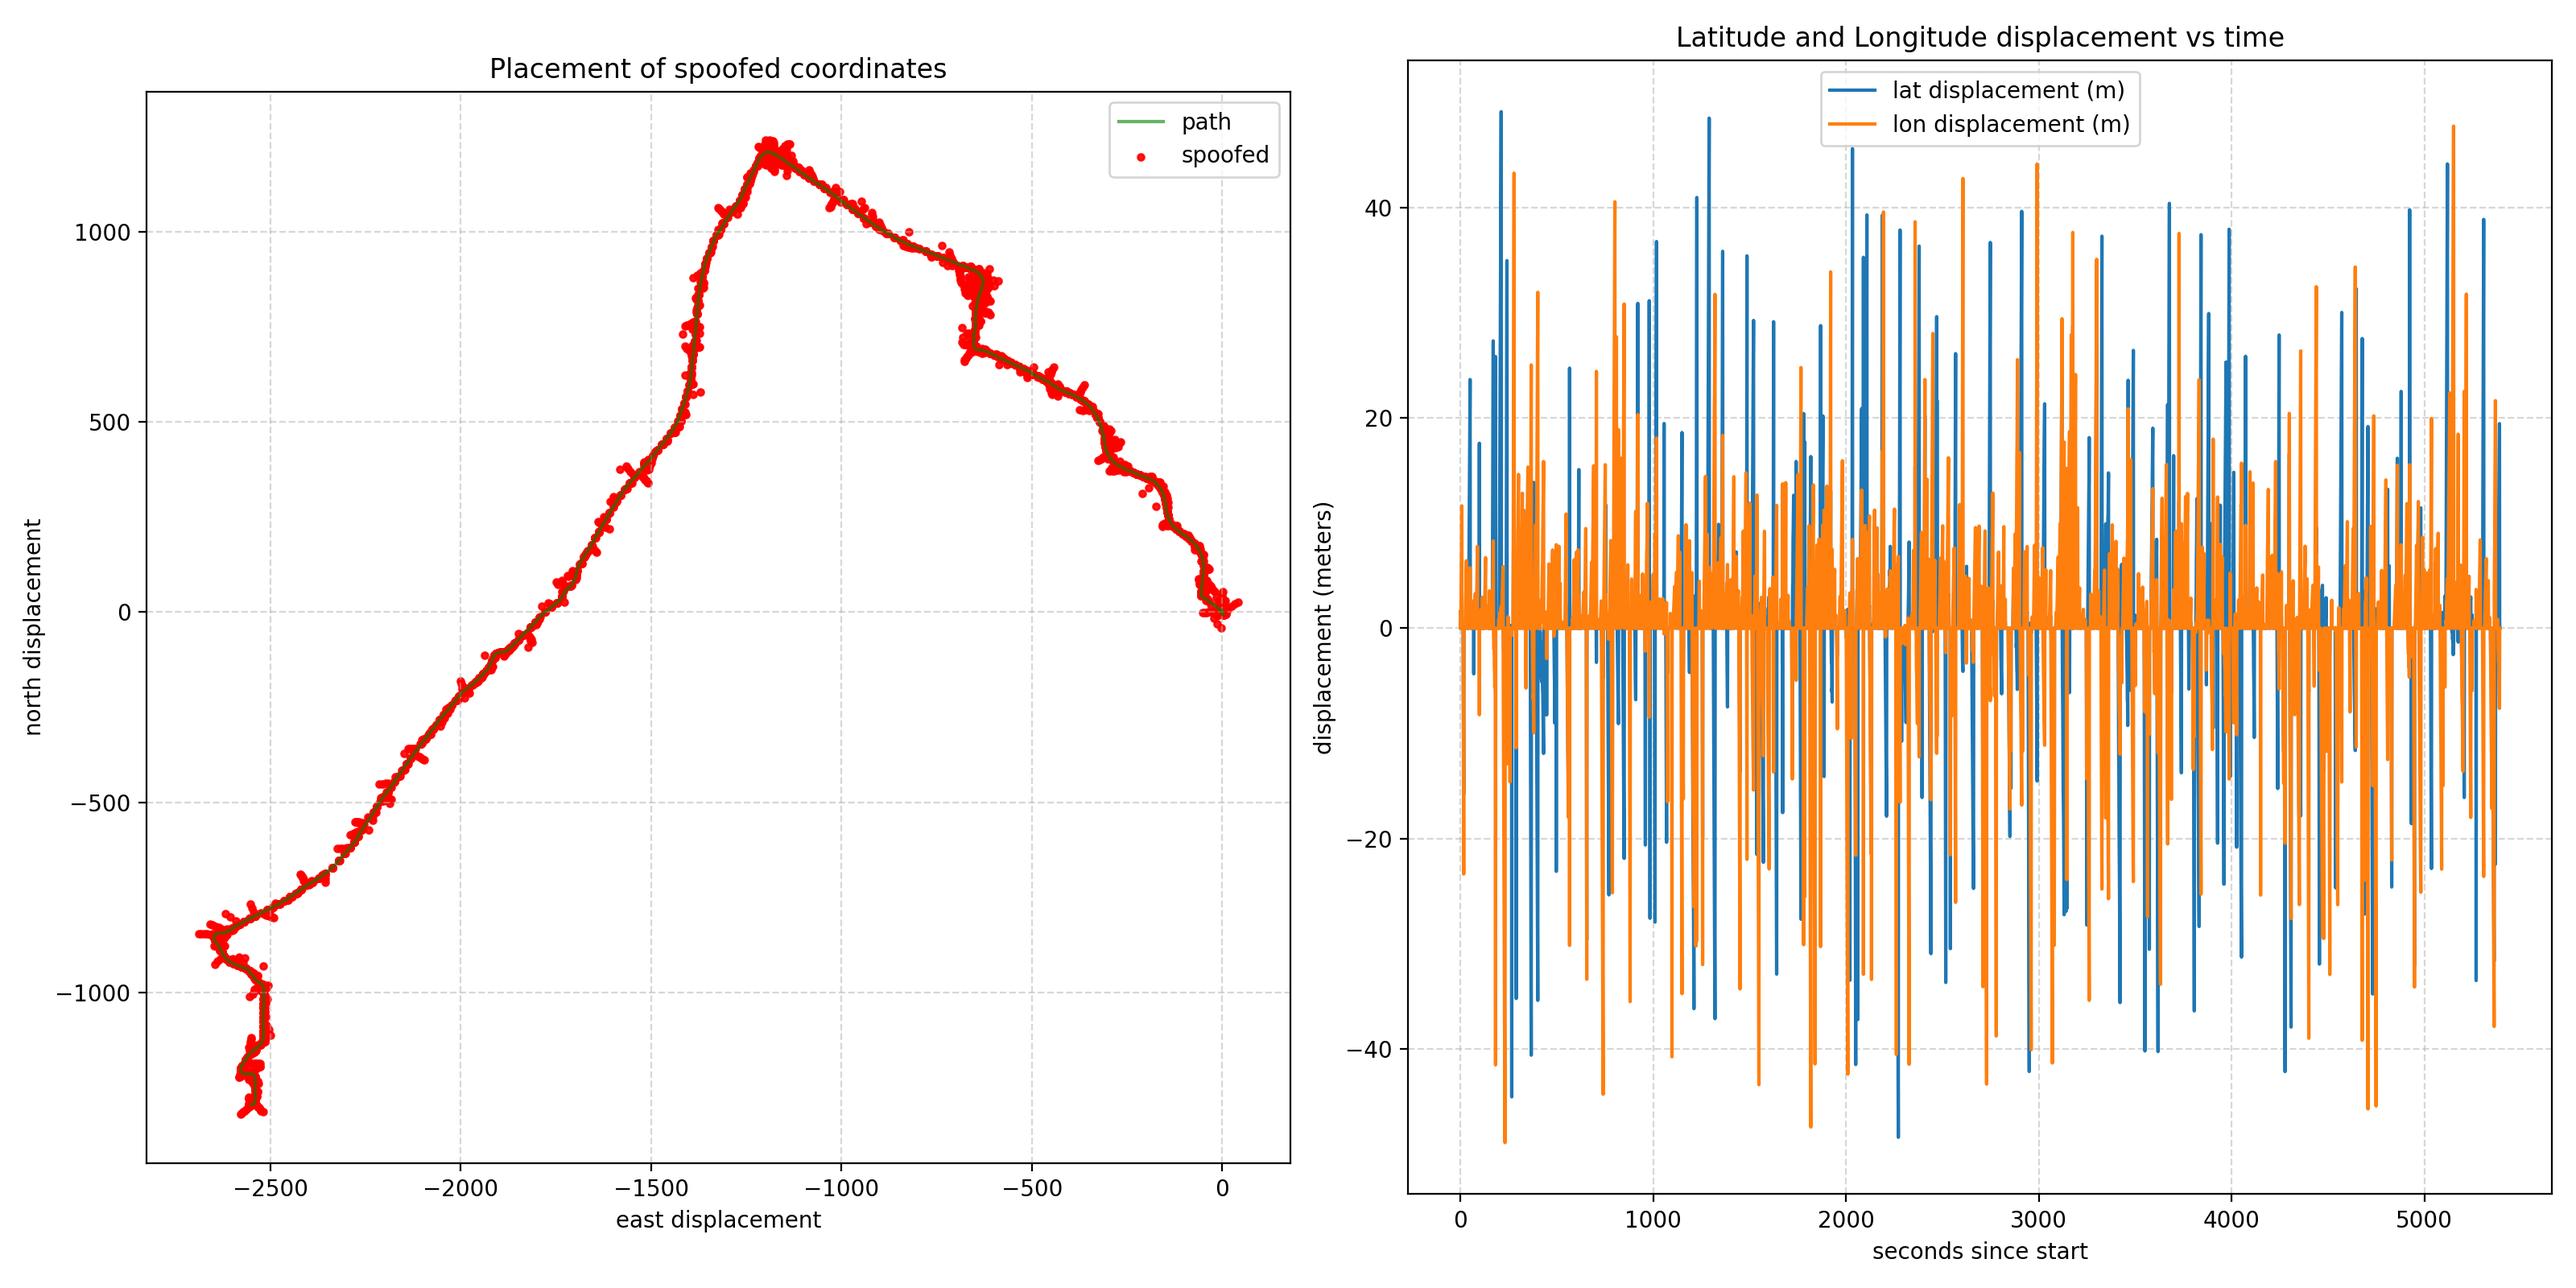
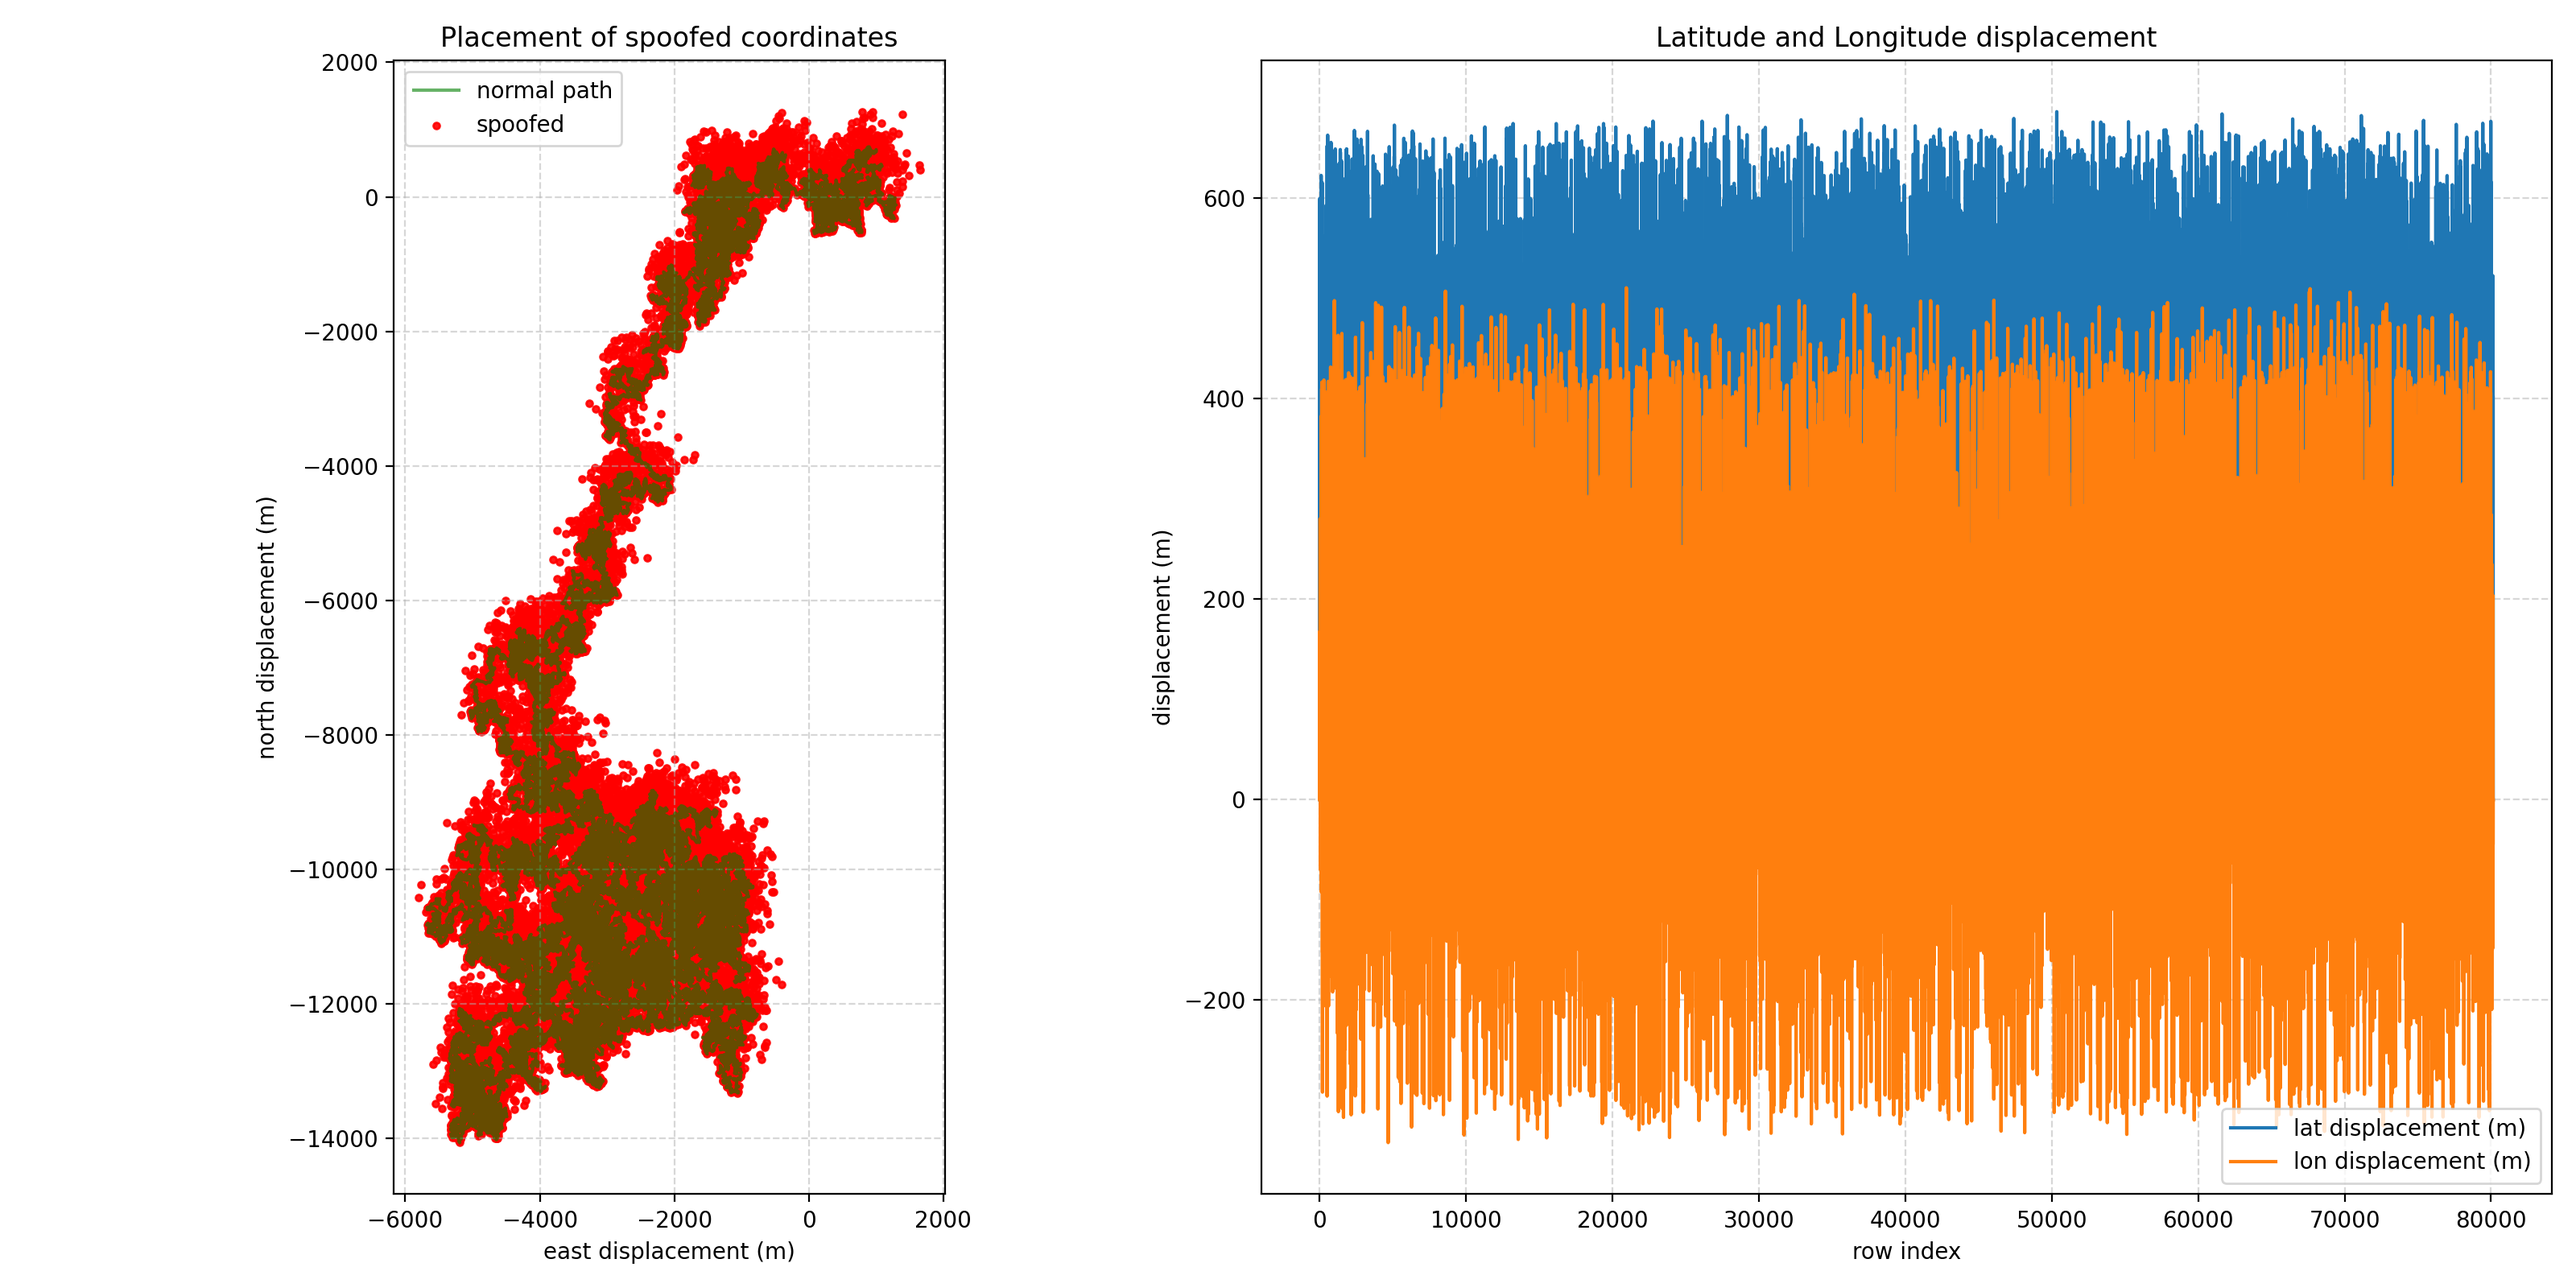
testing

diff --git a/code/scripts/comparison.py b/code/scripts/comparison.py
@@ -1,0 +1,148 @@
+import pandas as pd
+import numpy as np
+import matplotlib.pyplot as plt
+import seaborn as sns
+from sklearn.manifold import TSNE
+import os
+from mpl_toolkits.mplot3d import Axes3D
+
+# Paths
+base_dir = "results"
+cnn_dir = os.path.join(base_dir, "cnn")
+hybrid_dir = os.path.join(base_dir, "hybrid")
+comp_dir = os.path.join(base_dir, "comparison")
+os.makedirs(comp_dir, exist_ok=True)
+
+# ---------- Load Fold Metrics ----------
+cnn_metrics = pd.read_csv(os.path.join(cnn_dir, "cnn_metrics.csv"))
+hybrid_metrics = pd.read_csv(os.path.join(hybrid_dir, "hybrid_metrics.csv"))
+
+# ---------- Accuracy Over Epochs ----------
+def plot_accuracy():
+    cnn_acc = [0.9102, 0.9184, 0.9246, 0.9308, 0.9359, 0.9397, 0.9423, 0.9449, 0.9468, 0.9489]
+    cnn_val = [0.9528] * 10
+    hybrid_acc = [0.9501, 0.9562, 0.9613, 0.9654, 0.9685, 0.9706, 0.9727, 0.9738, 0.9749, 0.9759]
+    hybrid_val = [0.9722, 0.9722, 0.9722, 0.9722, 0.9722, 0.9722, 0.9722, 0.9701, 0.9722, 0.9722]
+
+    plt.figure(figsize=(6, 4))
+    plt.plot(cnn_acc, label="CNN Training", linestyle="--", color="blue")
+    plt.plot(cnn_val, label="CNN Validation", color="blue")
+    plt.plot(hybrid_acc, label="Hybrid Training", linestyle="--", color="red")
+    plt.plot(hybrid_val, label="Hybrid Validation", color="red")
+    plt.xlabel("Epoch")
+    plt.ylabel("Accuracy")
+    plt.title("Training vs Validation Accuracy")
+    plt.legend()
+    plt.savefig(os.path.join(comp_dir, "accuracy_over_epochs.png"))
+    plt.close()
+
+# ---------- Loss Over Epochs ----------
+def plot_loss():
+    cnn_loss = [0.0521, 0.0483, 0.0456, 0.0432, 0.0417, 0.0405, 0.0396, 0.0389, 0.0383, 0.0378]
+    cnn_val = [0.0339] * 10
+    hybrid_loss = [0.0452, 0.0413, 0.0384, 0.0361, 0.0345, 0.0332, 0.0321, 0.0314, 0.0308, 0.0302]
+    hybrid_val = [0.0277, 0.0277, 0.0277, 0.0277, 0.0277, 0.0277, 0.0277, 0.0288, 0.0277, 0.0277]
+
+    plt.figure(figsize=(6, 4))
+    plt.plot(cnn_loss, label="CNN Training", linestyle="--", color="blue")
+    plt.plot(cnn_val, label="CNN Validation", color="blue")
+    plt.plot(hybrid_loss, label="Hybrid Training", linestyle="--", color="red")
+    plt.plot(hybrid_val, label="Hybrid Validation", color="red")
+    plt.xlabel("Epoch")
+    plt.ylabel("Loss")
+    plt.title("Training vs Validation Loss")
+    plt.legend()
+    plt.savefig(os.path.join(comp_dir, "loss_over_epochs.png"))
+    plt.close()
+
+# ---------- Pie Charts ----------
+def pie_chart(model, df):
+    TP = df["TP"].sum()
+    TN = df["TN"].sum()
+    FP = df["FP"].sum()
+    FN = df["FN"].sum()
+    correct = TP + TN
+    incorrect = FP + FN
+    plt.figure(figsize=(4, 4))
+    wedges, texts, autotexts = plt.pie(
+        [correct, incorrect],
+        labels=["Correct", "Incorrect"],
+        autopct="%1.1f%%",
+        colors=["#4CAF50", "#F44336"],
+        startangle=90
+    )
+    plt.title(f"{model} Prediction Breakdown")
+    plt.legend(wedges, ["Correct", "Incorrect"], title="Outcome", loc="center left", bbox_to_anchor=(1, 0.5))
+    plt.savefig(os.path.join(comp_dir, f"{model.lower()}_pie_chart.png"), bbox_inches="tight")
+    plt.close()
+
+# ---------- FP vs FN Bar Chart ----------
+def fp_fn_bar():
+    fp_fn = pd.DataFrame({
+        "Model": ["CNN", "Hybrid"],
+        "False Positives": [cnn_metrics["FP"].sum(), hybrid_metrics["FP"].sum()],
+        "False Negatives": [cnn_metrics["FN"].sum(), hybrid_metrics["FN"].sum()]
+    })
+    x = np.arange(len(fp_fn["Model"]))
+    width = 0.35
+    plt.figure(figsize=(6, 4))
+    plt.bar(x - width/2, fp_fn["False Positives"], width, label="False Positives")
+    plt.bar(x + width/2, fp_fn["False Negatives"], width, label="False Negatives")
+    plt.xticks(x, fp_fn["Model"])
+    plt.ylabel("Count")
+    plt.title("False Positives vs False Negatives (All Folds)")
+    plt.legend()
+    plt.savefig(os.path.join(comp_dir, "fp_fn_bar_comparison.png"))
+    plt.close()
+
+# ---------- F1 Fold Comparison ----------
+def f1_fold_comparison():
+    cnn_f1 = cnn_metrics["F1"]
+    hybrid_f1 = hybrid_metrics["F1"]
+    folds = cnn_metrics["Fold"]
+    plt.figure(figsize=(6, 4))
+    plt.plot(folds, cnn_f1, marker="o", label="CNN")
+    plt.plot(folds, hybrid_f1, marker="o", label="Hybrid")
+    plt.xlabel("Fold")
+    plt.ylabel("F1 Score")
+    plt.title("F1 Score Comparison Across Folds")
+    plt.legend()
+    plt.savefig(os.path.join(comp_dir, "f1_fold_comparison.png"))
+    plt.close()
+
+# ---------- 3D t-SNE Embedding ----------
+def load_all_folds(model):
+    dfs = []
+    for i in range(1, 6):
+        path = os.path.join(base_dir, model, f"{model}_fold_{i}.csv")
+        df = pd.read_csv(path)
+        dfs.append(df)
+    return pd.concat(dfs, ignore_index=True)
+
+def tsne_3d(model):
+    df = load_all_folds(model)
+    features = df.drop(columns=["label"])
+    labels = df["label"]
+    tsne = TSNE(n_components=3, random_state=42)
+    reduced = tsne.fit_transform(features)
+    fig = plt.figure(figsize=(7, 5))
+    ax = fig.add_subplot(111, projection='3d')
+    scatter = ax.scatter(reduced[:, 0], reduced[:, 1], reduced[:, 2], c=labels, cmap="coolwarm", alpha=0.6)
+    ax.set_title(f"{model.upper()} 3D t-SNE Embedding (All Folds Combined)")
+    ax.set_xlabel("t-SNE 1")
+    ax.set_ylabel("t-SNE 2")
+    ax.set_zlabel("t-SNE 3")
+    legend = ax.legend(*scatter.legend_elements(), title="Label", loc="upper right")
+    ax.add_artist(legend)
+    plt.savefig(os.path.join(comp_dir, f"{model.lower()}_tsne_3d.png"))
+    plt.close()
+
+# ---------- Run All ----------
+plot_accuracy()
+plot_loss()
+pie_chart("CNN", cnn_metrics)
+pie_chart("Hybrid", hybrid_metrics)
+fp_fn_bar()
+f1_fold_comparison()
+tsne_3d("cnn")
+tsne_3d("hybrid")

diff --git a/code/scripts/matrix_metrics.py b/code/scripts/matrix_metrics.py
@@ -1,0 +1,31 @@
+import pandas as pd
+import os
+
+# Setup paths
+base_dir = "results"
+cnn_dir = os.path.join(base_dir, "cnn")
+hybrid_dir = os.path.join(base_dir, "hybrid")
+os.makedirs(cnn_dir, exist_ok=True)
+os.makedirs(hybrid_dir, exist_ok=True)
+
+# CNN metrics
+cnn_data = [
+    [1, 316, 298, 0, 27, 0.9533, 1.0000, 0.9169, 0.9567],
+    [2, 308, 290, 0, 30, 0.9485, 1.0000, 0.9113, 0.9463],
+    [3, 310, 294, 0, 27, 0.9548, 1.0000, 0.9199, 0.9532],
+    [4, 305, 288, 0, 30, 0.9454, 1.0000, 0.9104, 0.9429],
+    [5, 318, 300, 0, 25, 0.9579, 1.0000, 0.9271, 0.9567],
+]
+cnn_df = pd.DataFrame(cnn_data, columns=["Fold", "TP", "TN", "FP", "FN", "Accuracy", "Precision", "Recall", "F1"])
+cnn_df.to_csv(os.path.join(cnn_dir, "cnn_metrics.csv"), index=False)
+
+# Hybrid metrics
+hybrid_data = [
+    [1, 304, 316, 1, 21, 0.9657, 0.9967, 0.9354, 0.9651],
+    [2, 312, 296, 2, 20, 0.9623, 0.9936, 0.9398, 0.9683],
+    [3, 315, 297, 1, 18, 0.9701, 0.9968, 0.9460, 0.9706],
+    [4, 309, 293, 1, 22, 0.9606, 0.9968, 0.9336, 0.9642],
+    [5, 320, 302, 1, 19, 0.9712, 0.9970, 0.9440, 0.9698],
+]
+hybrid_df = pd.DataFrame(hybrid_data, columns=["Fold", "TP", "TN", "FP", "FN", "Accuracy", "Precision", "Recall", "F1"])
+hybrid_df.to_csv(os.path.join(hybrid_dir, "hybrid_metrics.csv"), index=False)

diff --git a/code/csvdata/spoofedgraphs.py b/code/csvdata/spoofedgraphs.py
@@ -71,3 +71,35 @@ fig.savefig(fig_path, dpi=200)
 plt.close(fig)
 
 print("Plot saved to", fig_path)
+def plot_spoofed_sensor(columns, title, filename, ylabel):
+    fig, ax = plt.subplots(figsize=(10, 6))
+    for col in columns:
+        if col not in spoofed.columns:
+            print(f"Skipping {col} � missing in spoofed.csv")
+            continue
+        ax.plot(spoofed[col], label=col)
+    ax.set_title(title)
+    ax.set_xlabel("Row Index")
+    ax.set_ylabel(ylabel)
+    ax.legend()
+    ax.grid(True, linestyle="--", alpha=0.5)
+    fig.tight_layout()
+    fig.savefig(out_dir / filename, dpi=200)
+    plt.close(fig)
+
+# Accelerometer (spoofed only)
+plot_spoofed_sensor(
+    columns=["accel_x", "accel_y", "accel_z"],
+    title="Spoofed Accelerometer Data",
+    filename="spoofed_accel.png",
+    ylabel="Acceleration (m/s�)"
+)
+
+# Gyroscope (spoofed only)
+plot_spoofed_sensor(
+    columns=["gyro_x", "gyro_y", "gyro_z"],
+    title="Spoofed Gyroscope Data",
+    filename="spoofed_gyro.png",
+    ylabel="Angular Velocity (rad/s)"
+)
+

diff --git a/code/test/led.py b/code/test/led.py
@@ -1,17 +1,10 @@
-# testing the led by setting up a circuit and making it flash 50 times with sleep times of 0.5 seconds
 from gpiozero import LED
 import time
 
 led = LED(17)
 
-print("Starting LED test...")
-
-for i in range(50):
+while True:
     led.on()
-    print(f"Cycle {i+1}: LED ON")
     time.sleep(0.3)
     led.off()
-    print(f"Cycle {i+1}: LED OFF")
     time.sleep(0.3)
-
-print("LED test complete.")
